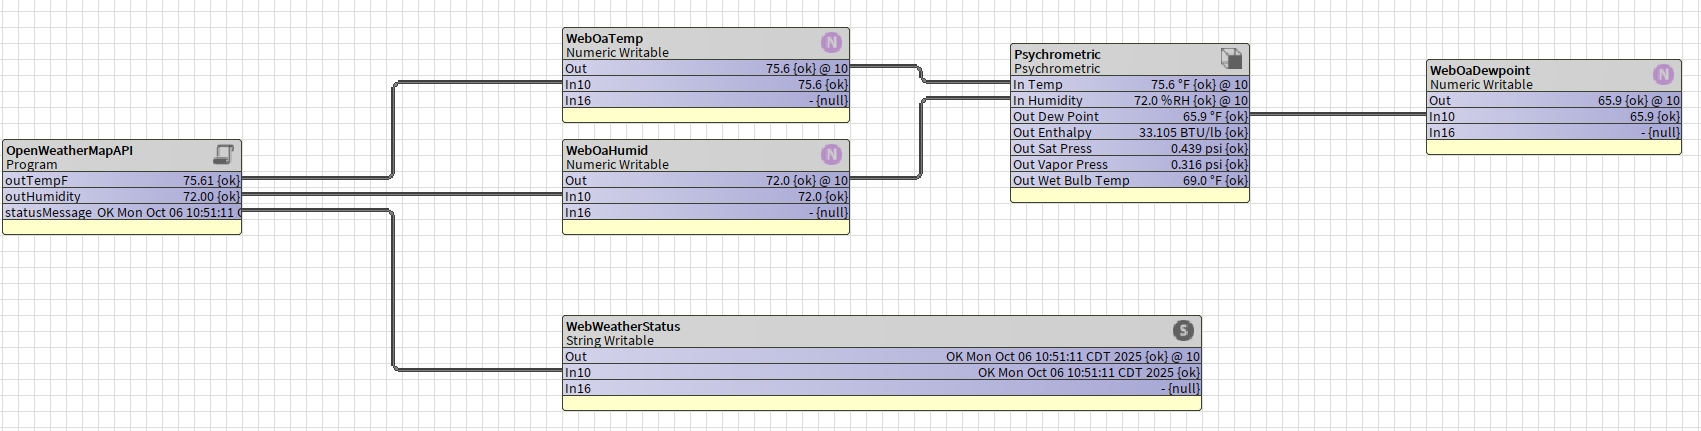
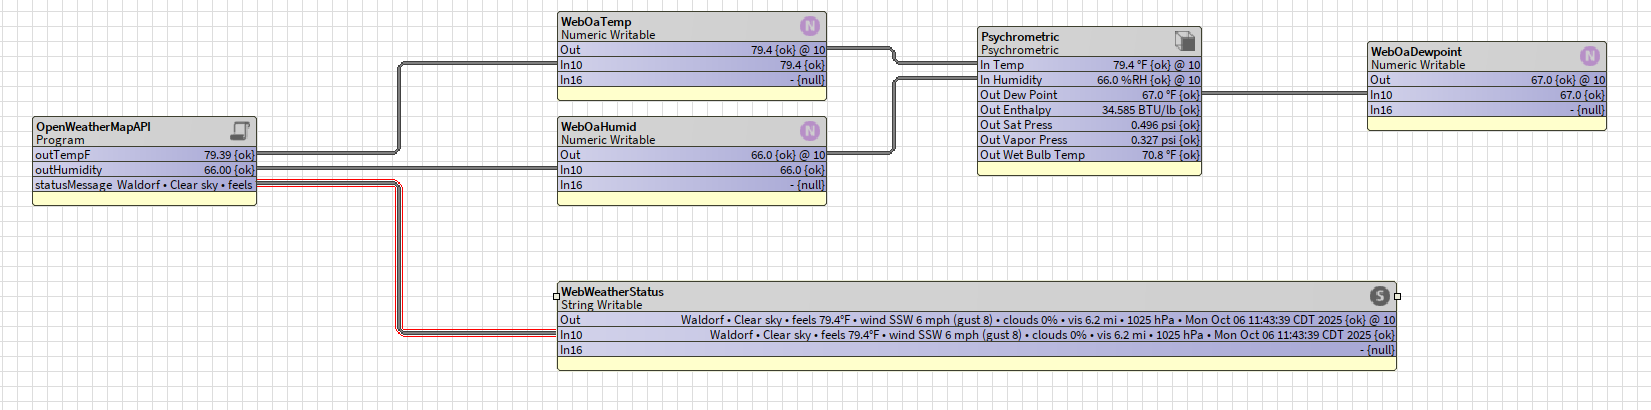
updated README for web weather better string data

diff --git a/README.md b/README.md
@@ -2885,6 +2885,11 @@ double round1(double val) {
 
 This ProgramObject polls **OpenWeatherMap Current Weather** and outputs **Outside Air Temperature (°F)** and **Relative Humidity (%)** on a 20-minute cadence using a simple HTTP GET and lightweight JSON parsing (no extra libs). Lat/Lon, units, language, and cadence are **baked in as defaults**; you only provide your **API key**.
 
+Grab a free API key here (which can take up to a few hours for them to return one to you...):
+* https://openweathermap.org/current
+
+> NOTE: At the present moment (October 2025) it is free for `60 calls/minute (i.e. 1 call every ~1 second) up to a 1,000 calls/day` but I am only doing 1 call for an entire campus of building every 20 minutes or 1200 seconds.
+
 ### ⚙ Slots
 
 | Slot Name       | Type                 | Writable | Notes                                                 |
@@ -2913,27 +2918,77 @@ Adjust as necessary in the `ProgramObject` property sheet.
 
 ---
 
-### 🌍 Using non-imperial units (metric or Kelvin)
+## 🌡 `units` Parameter Options
 
-**Quickest option:** edit one word in the URL builder:
+| Value                  | Temperature     | Wind speed | Pressure | Description                                           |
+| ---------------------- | --------------- | ---------- | -------- | ----------------------------------------------------- |
+| `standard` *(default)* | Kelvin (K)      | meter/sec  | hPa      | No `&units` needed; omit it or use `&units=standard`. |
+| `metric`               | Celsius (°C)    | meter/sec  | hPa      | Typical for international / SI users.                 |
+| `imperial`             | Fahrenheit (°F) | miles/hour | hPa      | Default for U.S.-style unit systems.                  |
 
-* For **metric (°C, m/s)** → change `&units=imperial` to `&units=metric`
-* For **standard (Kelvin)** → remove the units param or set `&units=standard`
+🧠 **Notes:**
 
-If you want this configurable at runtime, add a writable `baja:String` slot named `units` and replace the hardcoded `imperial` with `getUnits()` (default it to `imperial` in `onStart()`).
+* If `&units` is **not** specified, it defaults to **Kelvin** (standard).
+* Example conversions from your Niagara block:
+
+  * `&units=imperial` → °F and mph
+  * `&units=metric` → °C and m/s
+  * `&units=standard` → Kelvin and m/s
 
 ---
 
-### ▶ Run It
+## 🌍 `lang` Parameter Options
 
-1. Create the four slots above with the exact names/types.
-2. Paste the code block into the Program’s **Source** (methods only).
-3. **Compile** in Workbench.
-4. Enter your **API key** in `apiKey`.
-5. Watch `outTempF`, `outHumidity`, and `statusMessage` update.
+The `lang` parameter controls the **language of weather descriptions** (like “clear sky”, “light rain”). It does **not** affect numeric data.
 
-> Any change to defaults (location, units, cadence) requires re-compiling the ProgramObject in Workbench for it to take effect. ✔
-
+| Code    | Language              | Example                   |
+| ------- | --------------------- | ------------------------- |
+| `af`    | Afrikaans             | “helder lug”              |
+| `al`    | Albanian              | “qiell i kthjellët”       |
+| `ar`    | Arabic                | “سماء صافية”              |
+| `az`    | Azerbaijani           | “açıq hava”               |
+| `bg`    | Bulgarian             | “ясно небе”               |
+| `ca`    | Catalan               | “cel clar”                |
+| `cz`    | Czech                 | “jasná obloha”            |
+| `da`    | Danish                | “klar himmel”             |
+| `de`    | German                | “klarer Himmel”           |
+| `el`    | Greek                 | “καθαρός ουρανός”         |
+| `en`    | English *(default)*   | “clear sky”               |
+| `eu`    | Basque                | “zeru garbi”              |
+| `fa`    | Persian (Farsi)       | “آسمان صاف”               |
+| `fi`    | Finnish               | “selkeä taivas”           |
+| `fr`    | French                | “ciel dégagé”             |
+| `gl`    | Galician              | “céu despexado”           |
+| `he`    | Hebrew                | “שמיים בהירים”            |
+| `hi`    | Hindi                 | “साफ आसमान”               |
+| `hr`    | Croatian              | “vedro nebo”              |
+| `hu`    | Hungarian             | “derült égbolt”           |
+| `id`    | Indonesian            | “langit cerah”            |
+| `it`    | Italian               | “cielo sereno”            |
+| `ja`    | Japanese              | “晴天”                      |
+| `kr`    | Korean                | “맑은 하늘”                   |
+| `la`    | Latvian               | “skaidras debesis”        |
+| `lt`    | Lithuanian            | “giedras dangus”          |
+| `mk`    | Macedonian            | “ведро небо”              |
+| `no`    | Norwegian             | “klar himmel”             |
+| `nl`    | Dutch                 | “heldere lucht”           |
+| `pl`    | Polish                | “bezchmurne niebo”        |
+| `pt`    | Portuguese            | “céu limpo”               |
+| `pt_br` | Portuguese (Brazil)   | “céu limpo”               |
+| `ro`    | Romanian              | “cer senin”               |
+| `ru`    | Russian               | “ясное небо”              |
+| `sv`    | Swedish               | “klar himmel”             |
+| `sk`    | Slovak                | “jasná obloha”            |
+| `sl`    | Slovenian             | “jasno nebo”              |
+| `es`    | Spanish               | “cielo despejado”         |
+| `sr`    | Serbian               | “ведро небо”              |
+| `th`    | Thai                  | “ท้องฟ้าแจ่มใส”           |
+| `tr`    | Turkish               | “açık hava”               |
+| `ua`    | Ukrainian             | “ясне небо”               |
+| `vi`    | Vietnamese            | “bầu trời trong xanh”     |
+| `zh_cn` | Chinese (Simplified)  | “晴朗”                      |
+| `zh_tw` | Chinese (Traditional) | “晴朗”                      |
+| `zu`    | Zulu                  | “isibhakabhaka esicacile” |
 
 ---
 
@@ -2942,6 +2997,18 @@ If you want this configurable at runtime, add a writable `baja:String` slot name
 > Niagara auto-generates class headers, imports, and getters/setters. Paste **only** the methods below into the Program’s **Source** editor.
 
 ```java
+/* ===== Program Methods + Helpers (paste into ProgramImpl source) ===== */
+
+////////////////////////////////////////
+// Constants (defaults baked-in)
+////////////////////////////////////////
+private static final double DEFAULT_LAT  = 38.6246;   // Waldorf, MD
+private static final double DEFAULT_LON  = -76.9391;
+private static final String UNITS        = "imperial"; // imperial|metric|standard
+private static final String LANG         = "en";
+private static final int    POLL_SECONDS = 1200;      // 20 minutes
+private static final String OWM_BASE     = "https://api.openweathermap.org/data/2.5/weather";
+
 Clock.Ticket ticket;
 
 public void onStart() throws Exception {
@@ -2961,11 +3028,12 @@ public void onStop() throws Exception {
 
 private void scheduleNext() {
   if (ticket != null) ticket.cancel();
-  ticket = Clock.schedule(getComponent(), BRelTime.makeSeconds(1200), BProgram.execute, null);
+  ticket = Clock.schedule(getComponent(), BRelTime.makeSeconds(POLL_SECONDS), BProgram.execute, null);
 }
 
 private void fetchWeatherData() {
   try {
+    // --- Validate key ---
     String key = getApiKey();
     if (key == null || key.trim().isEmpty()) {
       getStatusMessage().setValue("Config: API key missing");
@@ -2973,14 +3041,13 @@ private void fetchWeatherData() {
       return;
     }
 
-    // Fixed defaults (Waldorf MD, imperial, en)
-    String base = "https://api.openweathermap.org/data/2.5/weather";
-    String urlStr = base
-        + "?lat=38.6246"
-        + "&lon=-76.9391"
-        + "&appid=" + java.net.URLEncoder.encode(key, "UTF-8")
-        + "&units=imperial"
-        + "&lang=en";
+    // --- Build URL from defaults ---
+    String urlStr = OWM_BASE
+      + "?lat="   + DEFAULT_LAT
+      + "&lon="   + DEFAULT_LON
+      + "&appid=" + java.net.URLEncoder.encode(key, "UTF-8")
+      + "&units=" + UNITS
+      + "&lang="  + LANG;
 
     URL url = new URL(urlStr);
     HttpURLConnection conn = (HttpURLConnection) url.openConnection();
@@ -2997,8 +3064,10 @@ private void fetchWeatherData() {
       in.close();
 
       String json = sb.toString();
-      double tempF   = extractValue(json, "\"temp\":");       // main.temp
-      double humidPc = extractValue(json, "\"humidity\":");   // main.humidity
+
+      // --- Numeric outputs you already expose ---
+      double tempF   = extractNumber(json, "\"temp\":");       // main.temp
+      double humidPc = extractNumber(json, "\"humidity\":");   // main.humidity
 
       if (!Double.isNaN(tempF))   { getOutTempF().setValue(tempF);   getOutTempF().setStatus(BStatus.ok); }
       else                        { getOutTempF().setValue(0);       getOutTempF().setStatus(BStatus.NULL); }
@@ -3006,26 +3075,74 @@ private void fetchWeatherData() {
       if (!Double.isNaN(humidPc)) { getOutHumidity().setValue(humidPc); getOutHumidity().setStatus(BStatus.ok); }
       else                        { getOutHumidity().setValue(0);       getOutHumidity().setStatus(BStatus.NULL); }
 
-      getStatusMessage().setValue("OK " + new java.util.Date().toString());
-    } else {
-      getStatusMessage().setValue("HTTP Error: " + code);
+      // --- Nice status string: location + feels + wind + clouds + vis + pressure + time ---
+      // Optional fields (OK if missing)
+      double feelsF   = extractNumber(json, "\"feels_like\":");   // main.feels_like
+      double windMph  = extractNumber(json, "\"speed\":");        // wind.speed  (mph in imperial)
+      double gustMph  = extractNumber(json, "\"gust\":");         // wind.gust
+      double windDeg  = extractNumber(json, "\"deg\":");          // wind.deg
+      double clouds   = extractNumber(json, "\"all\":");          // clouds.all (%)
+      double pressure = extractNumber(json, "\"pressure\":");     // main.pressure (hPa)
+      double visM     = extractNumber(json, "\"visibility\":");   // meters
+      String desc     = extractString(json, "\"description\":\"");// weather[0].description
+      String city     = extractString(json, "\"name\":\"");       // city name
+      double rlat     = extractNumber(json, "\"lat\":");          // coord.lat
+      double rlon     = extractNumber(json, "\"lon\":");          // coord.lon
+
+      // Location sanity vs our default pin
+      double milesOff = haversineMiles(DEFAULT_LAT, DEFAULT_LON, rlat, rlon);
+      String locNote  = (Double.isNaN(milesOff) || milesOff < 2.0)
+                          ? city
+                          : city + String.format(" (%.1f mi off)", milesOff);
+
+      StringBuilder nice = new StringBuilder();
+      if (!isEmpty(locNote)) nice.append(locNote).append(" • ");
+      if (!isEmpty(desc))    nice.append(cap(desc)).append(" • ");
+
+      if (!Double.isNaN(feelsF)) nice.append(String.format("feels %.1f°F • ", feelsF));
+
+      if (!Double.isNaN(windMph)) {
+        String dir = windDir(windDeg);
+        nice.append("wind ");
+        if (!isEmpty(dir)) nice.append(dir).append(" ");
+        nice.append(String.format("%.0f mph", windMph));
+        if (!Double.isNaN(gustMph)) nice.append(String.format(" (gust %.0f)", gustMph));
+        nice.append(" • ");
+      }
+
+      if (!Double.isNaN(clouds))   nice.append(String.format("clouds %.0f%% • ", clouds));
+      if (!Double.isNaN(visM))     nice.append(String.format("vis %.1f mi • ", visM / 1609.34));
+      if (!Double.isNaN(pressure)) nice.append(String.format("%.0f hPa • ", pressure));
+      nice.append(new java.util.Date().toString());
+
+      getStatusMessage().setValue(nice.toString());
+    }
+    else {
+      getStatusMessage().setValue("HTTP Error: " + code);  // 401 bad key, 429 rate limit, etc.
       nullOutputs();
     }
-  } catch (Exception e) {
+  }
+  catch (Exception e) {
     getStatusMessage().setValue("Error: " + e.getMessage());
     nullOutputs();
   }
 }
 
-// tiny numeric extractor: finds key then parses until non-number
-private double extractValue(String json, String key) {
+////////////////////////////////////////
+// Helpers
+////////////////////////////////////////
+
+// crude numeric extractor: finds key then parses consecutive number chars
+private double extractNumber(String json, String key) {
   try {
     int i = json.indexOf(key);
     if (i < 0) return Double.NaN;
-    int s = i + key.length(), e = s;
+    int s = i + key.length();
+    int e = s;
     while (e < json.length()) {
       char c = json.charAt(e);
-      if ((c >= '0' && c <= '9') || c == '.' || c == '-') e++; else break;
+      if ((c >= '0' && c <= '9') || c == '.' || c == '-') e++;
+      else break;
     }
     String raw = json.substring(s, e).replaceAll("[^0-9.\\-]", "");
     if (raw.length() == 0) return Double.NaN;
@@ -3035,10 +3152,54 @@ private double extractValue(String json, String key) {
   }
 }
 
+// tiny string extractor: looks for a prefix like "\"name\":\"" and returns until next quote
+private String extractString(String json, String keyPrefix) {
+  try {
+    int i = json.indexOf(keyPrefix);
+    if (i < 0) return "";
+    int s = i + keyPrefix.length();
+    int e = json.indexOf("\"", s);
+    if (e < 0) return "";
+    return json.substring(s, e);
+  } catch (Exception ex) {
+    return "";
+  }
+}
+
+private String cap(String s) {
+  if (s == null || s.isEmpty()) return "";
+  return s.substring(0,1).toUpperCase() + s.substring(1);
+}
+
+private boolean isEmpty(String s) { return s == null || s.length() == 0; }
+
+// wind cardinal from degrees
+private String windDir(double deg) {
+  if (Double.isNaN(deg)) return "";
+  String[] dirs = {"N","NNE","NE","ENE","E","ESE","SE","SSE",
+                   "S","SSW","SW","WSW","W","WNW","NW","NNW"};
+  int idx = (int)Math.floor(((deg % 360) / 22.5) + 0.5) % 16;
+  return dirs[idx];
+}
+
+// distance between (lat1,lon1) and (lat2,lon2) in miles (haversine)
+private double haversineMiles(double lat1, double lon1, double lat2, double lon2) {
+  if (Double.isNaN(lat2) || Double.isNaN(lon2)) return Double.NaN;
+  double R = 3958.8; // miles
+  double dLat = Math.toRadians(lat2 - lat1);
+  double dLon = Math.toRadians(lon2 - lon1);
+  double a = Math.sin(dLat/2)*Math.sin(dLat/2) +
+             Math.cos(Math.toRadians(lat1))*Math.cos(Math.toRadians(lat2))*
+             Math.sin(dLon/2)*Math.sin(dLon/2);
+  double c = 2 * Math.atan2(Math.sqrt(a), Math.sqrt(1-a));
+  return R * c;
+}
+
 private void nullOutputs() {
   try { getOutTempF().setValue(0); getOutTempF().setStatus(BStatus.NULL); } catch (Exception ignore) {}
   try { getOutHumidity().setValue(0); getOutHumidity().setStatus(BStatus.NULL); } catch (Exception ignore) {}
 }
+
 ```
 
 ---
